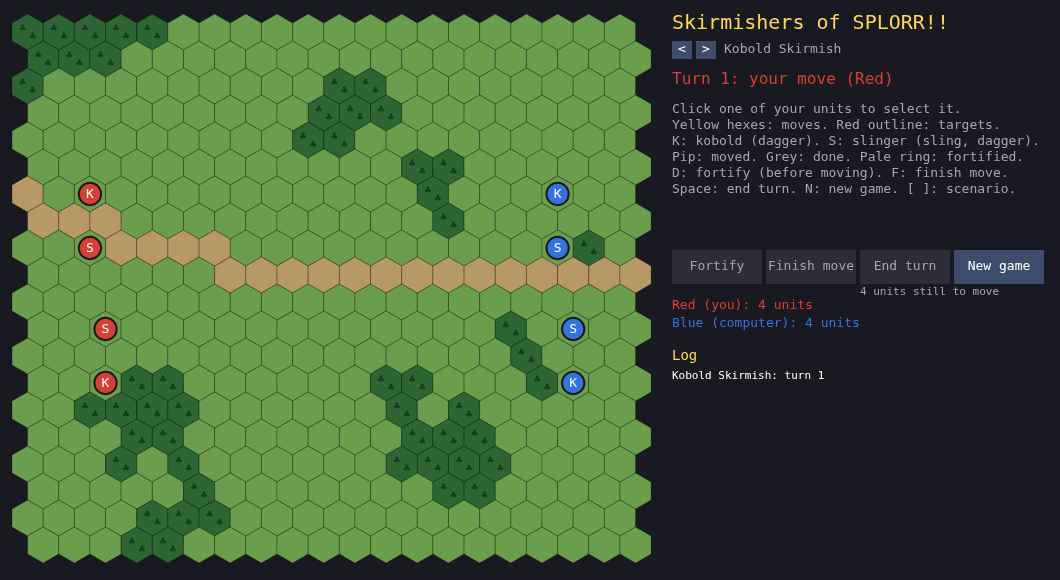
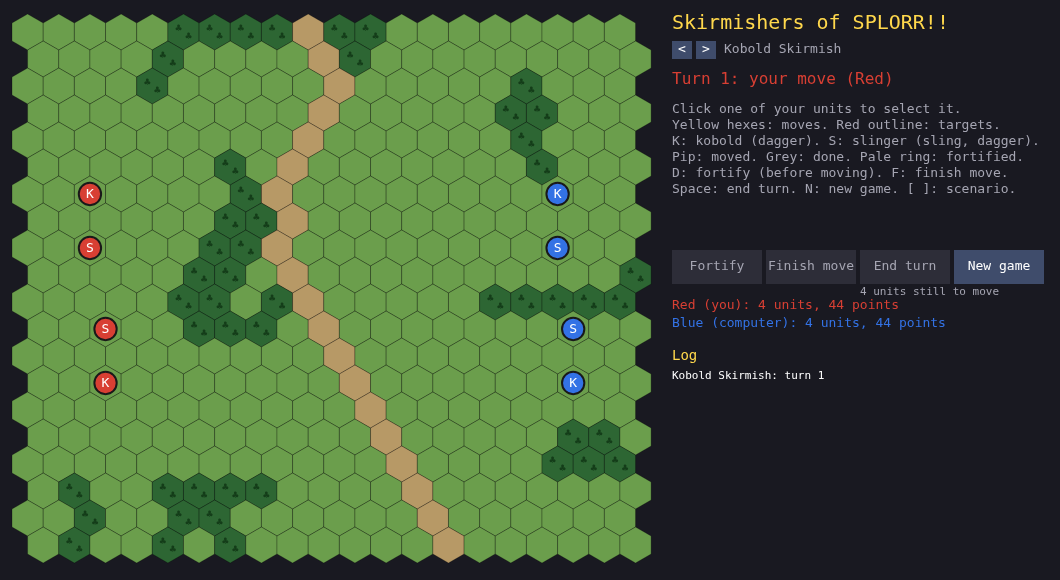
Enemies block line of sight; 15k5s battle; unit points
- A living enemy unit between shooter and target blocks the shot; the
  shooter's own side never does.
- The 20 vs 20 battle is 15 kobolds and 5 slingers a side.
- Units have a points cost: kobold 10, slinger 12, set with the
  simulator so equal-points armies fight about even. Shown on the page
  and in tools/sim.sh.
- Screenshots and cover regenerated.

diff --git a/CLAUDE.md b/CLAUDE.md
@@ -7,11 +7,11 @@ This file provides guidance to Claude Code (claude.ai/code) when working with co
 A single-player hex-and-counter wargame in the browser. Each scenario sets up the factions and says whether each one is human- or computer-controlled.
 
 - **Combat is HeroQuest-style dice**: the attacker rolls its attack dice and the target rolls its defence dice. Each die scores with a chance set by its colour: white 1/3, red 1/2, black 2/3. Each block cancels one hit, every hit left costs one body point, and a unit at 0 body points dies.
-- **Weapons hold the attack**: each `Weapon` in `WEAPONS` has attack dice and a min/max range in hexes. The dagger is 1 white die at range 1; the sling is 1 white die at range 2–3. **Units** have defence dice, body points, movement points and a `Weapons` bit_set. The weapon used is chosen automatically by distance (`weapon_for`, strongest dice if several reach), so a slinger 'switches' to its dagger in melee at no cost. Unit types: Kobold (dagger, `K` on the map) and Kobold Slinger (sling + dagger, `S`). The 4-unit teams are dagger, slinger, slinger, dagger; the 20-vs-20 battle is all daggers. Each unit can move (spending points over several moves) and then attack once per turn. **Attacking ends the unit's move** (`attack` zeroes `moves_left` and sets `done`). A unit can also finish its move by choice (`finish_move`; the UI says "Finish move", never "end unit", which reads like destroying it). **A side's turn cannot end until every unit's move is over**: `end_turn` returns false while `units_left_to_act > 0`. A unit's move is over when `unit_finished` is true: it was finished, it attacked, or it has no movement left and no enemy in reach. `unit_finished` / `unit_has_moved` drive the map shading: a finished unit is greyed out, and a unit that has moved but can still act gets a white pip.
+- **Weapons hold the attack**: each `Weapon` in `WEAPONS` has attack dice and a min/max range in hexes. The dagger is 1 white die at range 1; the sling is 1 white die at range 2–3. **Units** have defence dice, body points, movement points and a `Weapons` bit_set. The weapon used is chosen automatically by distance (`weapon_for`, strongest dice if several reach), so a slinger 'switches' to its dagger in melee at no cost. Unit types: Kobold (dagger, `K` on the map) and Kobold Slinger (sling + dagger, `S`). The 4-unit teams are dagger, slinger, slinger, dagger; the 20-vs-20 battle is 15 kobolds and 5 slingers a side. **Points** (`Unit_Type.points`, `army_points`): kobold 10, slinger 12, set with the simulator so equal points fight about even; `tools/sim.sh` prints each army's points. Each unit can move (spending points over several moves) and then attack once per turn. **Attacking ends the unit's move** (`attack` zeroes `moves_left` and sets `done`). A unit can also finish its move by choice (`finish_move`; the UI says "Finish move", never "end unit", which reads like destroying it). **A side's turn cannot end until every unit's move is over**: `end_turn` returns false while `units_left_to_act > 0`. A unit's move is over when `unit_finished` is true: it was finished, it attacked, or it has no movement left and no enemy in reach. `unit_finished` / `unit_has_moved` drive the map shading: a finished unit is greyed out, and a unit that has moved but can still act gets a white pip.
 - **Terrain sets the movement cost**: grass 1, forest 2, road 1. A step from road to road costs only 1/2; leaving a road costs the full cost of the hex entered. Movement is therefore counted in **half points** internally (`HALVES_PER_POINT`): `moves_left` and `movement_costs` are in halves, while `Unit_Type.move` and `TERRAIN_MOVE_COST` are in whole points. Units can pass through friendly units but not enemies, and cannot stop on an occupied hex.
 - **Map**: 20×20 staggered ("odd-r") grid of pointy-topped hexes, where odd rows are shifted half a hex to the right.
 - **Fortify** (`fortify`, key D): only before the unit has moved or attacked, and it is the unit's whole turn. Until its side's next turn starts, the unit defends with **advantage**: each failed defence die is rolled once more (`roll_dice(..., advantage = true)`; white 1/3 → 5/9). `start_faction_turn` clears it. The AI fortifies only when it cannot attack this turn but some enemy could attack it next turn (`ai_threatened`, an exact check with that enemy's real movement costs; a distance estimate could leave both sides fortified forever). Fortified units have a pale ring on the map and "(fort)" in the combat log.
-- **Line of sight**: attacks beyond 1 hex need it (`line_of_sight` in `rules.odin`, `hexes_between` in `hex.odin`). Forest on any hex strictly between the two units blocks it; the end hexes never block, so units can shoot into and out of a forest. A line running exactly along a hex edge is clear if either side is (lines are traced twice, nudged each way). On the staggered map, lines between edge hexes can graze off-map positions, which never block. Units do not block line of sight.
+- **Line of sight**: attacks beyond 1 hex need it (`line_of_sight` in `rules.odin`, `hexes_between` in `hex.odin`). Forest, or a living unit of another faction than the shooter's, on any hex strictly between the two units blocks it (`line_of_sight(g, a, b, viewer)`; `NO_FACTION` checks terrain only); the end hexes never block, so units can shoot into and out of a forest. A line running exactly along a hex edge is clear if either side is (lines are traced twice, nudged each way). On the staggered map, lines between edge hexes can graze off-map positions, which never block. The shooter's own side never blocks.
 - **Not built yet:** elevation and fog of war. When fog of war is added, the AI must only see what its own side can see, not the hidden state.
 
 **`DESIGN.md` holds the user's design decisions, including ones not built yet (elevation, fog of war, points costs, enemies blocking line of sight, presentation) and the agreed order of work. Follow it over the "Not built yet" notes here.**

diff --git a/README.md b/README.md
@@ -9,8 +9,8 @@ Made by an AI agent (Claude Code) at the direction of TheGrumpyGameDev: the code
 ## Rules
 
 - **Dice.** Attackers roll their weapon's attack dice and defenders roll their defence dice. A white die scores on 1 in 3, a red die on 1 in 2, and a black die on 2 in 3. Each block cancels one hit, and each hit left over costs a body point. Kobolds have 1 body point.
-- **Units.** A Kobold (`K`) carries a dagger (1 white die, range 1). A Kobold Slinger (`S`) carries a sling (1 white die, range 2 to 3) and a dagger, and uses whichever reaches the target. Both defend with 1 white die and move 4.
-- **Terrain.** Entering grass costs 1 movement point, forest 2 and road 1. A step from road to road costs 1/2. Forest between a slinger and its target blocks the shot.
+- **Units.** A Kobold (`K`) carries a dagger (1 white die, range 1). A Kobold Slinger (`S`) carries a sling (1 white die, range 2 to 3) and a dagger, and uses whichever reaches the target. Both defend with 1 white die and move 4. A kobold is worth 10 points and a slinger 12.
+- **Terrain.** Entering grass costs 1 movement point, forest 2 and road 1. A step from road to road costs 1/2. Forest or an enemy unit between a slinger and its target blocks the shot; your own units do not.
 - **Turns.** Each unit may move, then attack once. Attacking ends its move. A unit can also **Finish move** to stop early, or **Fortify** instead of moving: until your next turn, each failed defence die is rolled once more. The turn ends only when every unit has finished.
 - **Winning.** Eliminate the other side.
 
@@ -22,7 +22,7 @@ Made by an AI agent (Claude Code) at the direction of TheGrumpyGameDev: the code
 
 ## Scenarios
 
-Kobold Skirmish (four against four, two slingers each) on a lightly wooded map, and on maps that are 25, 50 or 75 percent forest. Two computer-against-computer battles: four against four, and twenty against twenty.
+Kobold Skirmish (four against four, two slingers each) on a lightly wooded map, and on maps that are 25, 50 or 75 percent forest. Two computer-against-computer battles: four against four, and twenty against twenty (15 kobolds and 5 slingers a side).
 
 ## Build
 

diff --git a/DESIGN.md b/DESIGN.md
@@ -8,16 +8,19 @@ the code as it is.
 
 - Forest on a hex between shooter and target blocks the shot. **Built.**
 - **Enemy units between shooter and target block the shot; friendly units do
-  not.**
+  not.** **Built.**
 
 ## Weapons and units
 
 - Weapon switching stays **free and automatic**: the distance picks the weapon
   (sling at 2–3, dagger at 1). **Built.**
-- **Points cost per unit type.** Kobold = 2 points. The slinger's value is set
-  with `tools/sim.sh` to make equal-points armies as close to 50/50 as
-  possible; report the value to the user before using it.
-- The 20-vs-20 computer battle becomes **15 kobolds and 5 slingers** per side.
+- **Points cost per unit type: kobold 10, slinger 12.** **Built.** The user first
+  set kobold = 2, but the simulator found a slinger worth about 1.2 kobolds (4
+  slingers ≈ 4.6 kobolds, 8 ≈ 9.6), which no whole number fits at that scale; the
+  user chose 10 and 12. Equal points then fight about even (5 slingers vs 6
+  kobolds: slingers win 48%; 10 vs 12: 47%).
+- The 20-vs-20 computer battle is **15 kobolds and 5 slingers** per side (210
+  points each; red wins 53% over 300 games). **Built.**
 
 ## Elevation
 
@@ -79,7 +82,7 @@ the code as it is.
 ## Suggested order
 
 1. README and release-standard files. **Done November 5, 2026.**
-2. Enemies block line of sight; 15k5s battle; points cost (simulator).
+2. Enemies block line of sight; 15k5s battle; points cost (simulator). **Done November 5, 2026.**
 3. Elevation.
 4. Fog of war.
 5. Computer player improvements.
